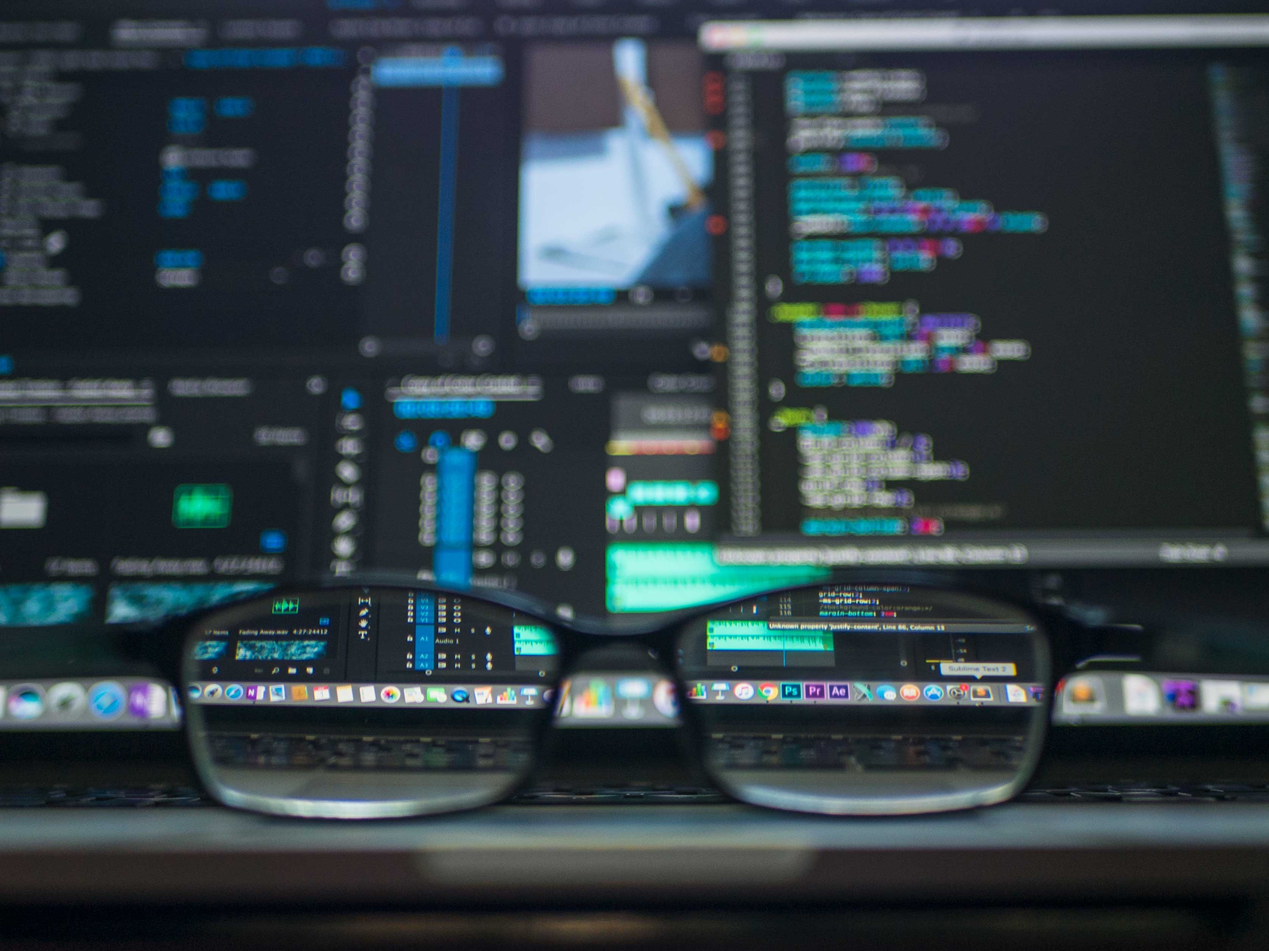
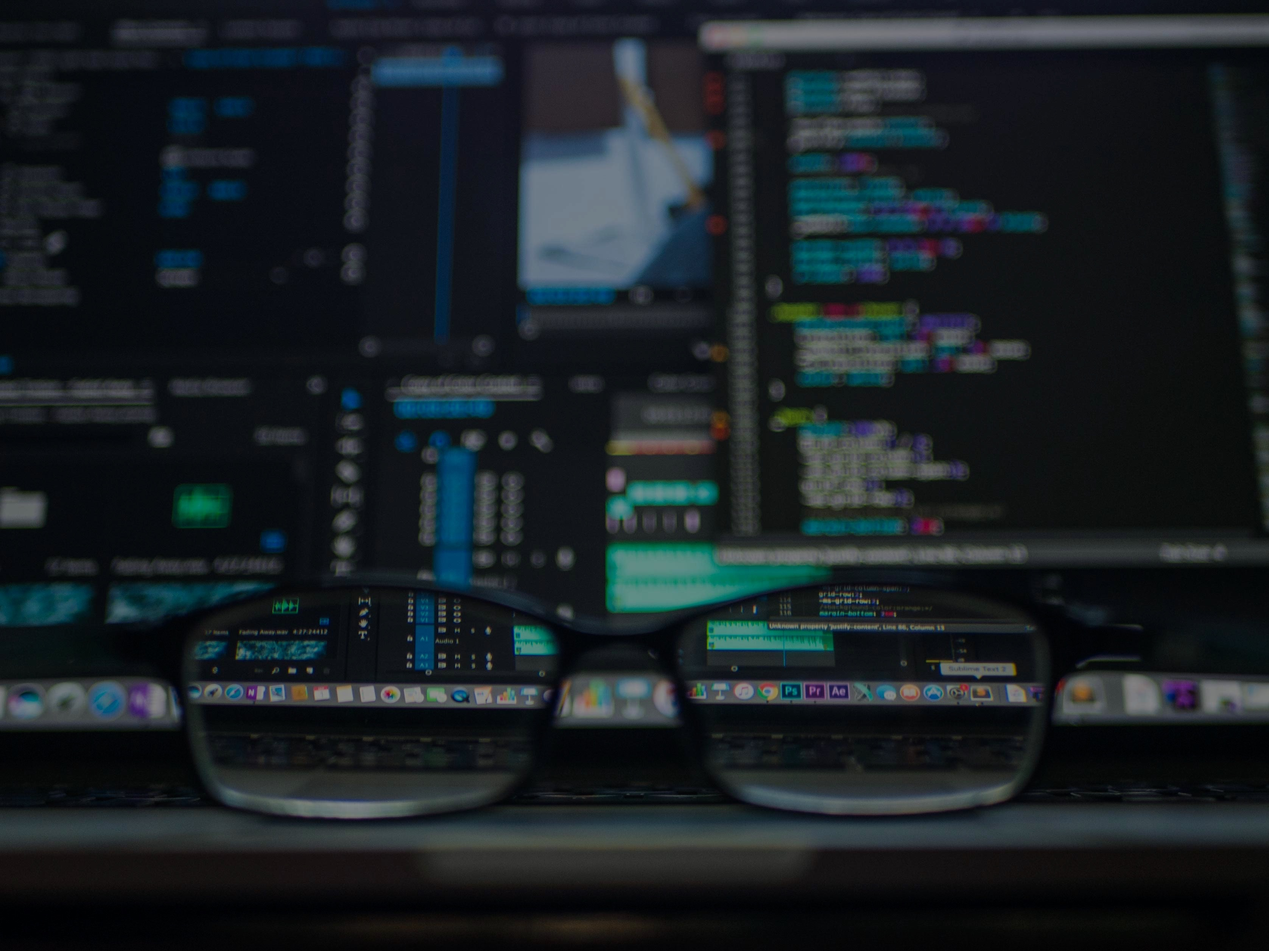
changed background and added email

diff --git a/index.html b/index.html
@@ -70,6 +70,7 @@
                 <img class="mx-auto rounded-circle slideLeft" src="img/team/1.jpg" alt="">
                 <h4 class="yellow">David Veytsman</h4>
                 <p class="text-muted">Web Developer</p>
+                <p class="yellow">Email: dveyts@yahoo.com</p>
                 <ul class="list-inline social-buttons">
                   <li class="list-inline-item">
                     <a href="https://github.com/Thrage1">
@@ -300,7 +301,8 @@
         <div class="row">
           <div class="col-lg-12 text-center">
             <h2 class="section-heading text-uppercase">Contact Me</h2>
-            <h3 class="section-subheading text-muted">Available for fulltime work.</h3>
+            <h3 class="section-heading yellow moveup">Available for fulltime work.</h3>
+            <p>Email me directly at dveyts@yahoo.com</p>
           </div>
         </div>
         <div class="row">

diff --git a/css/styling.css b/css/styling.css
@@ -33,6 +33,10 @@ slideDown
 
 	visibility: visible !important;
 }
+.container{
+  /*background-color: rgba(0, 0, 0, 0.2);*/
+  /*color:black;*/
+}
 
 @keyframes slideDown {
 	0% {
